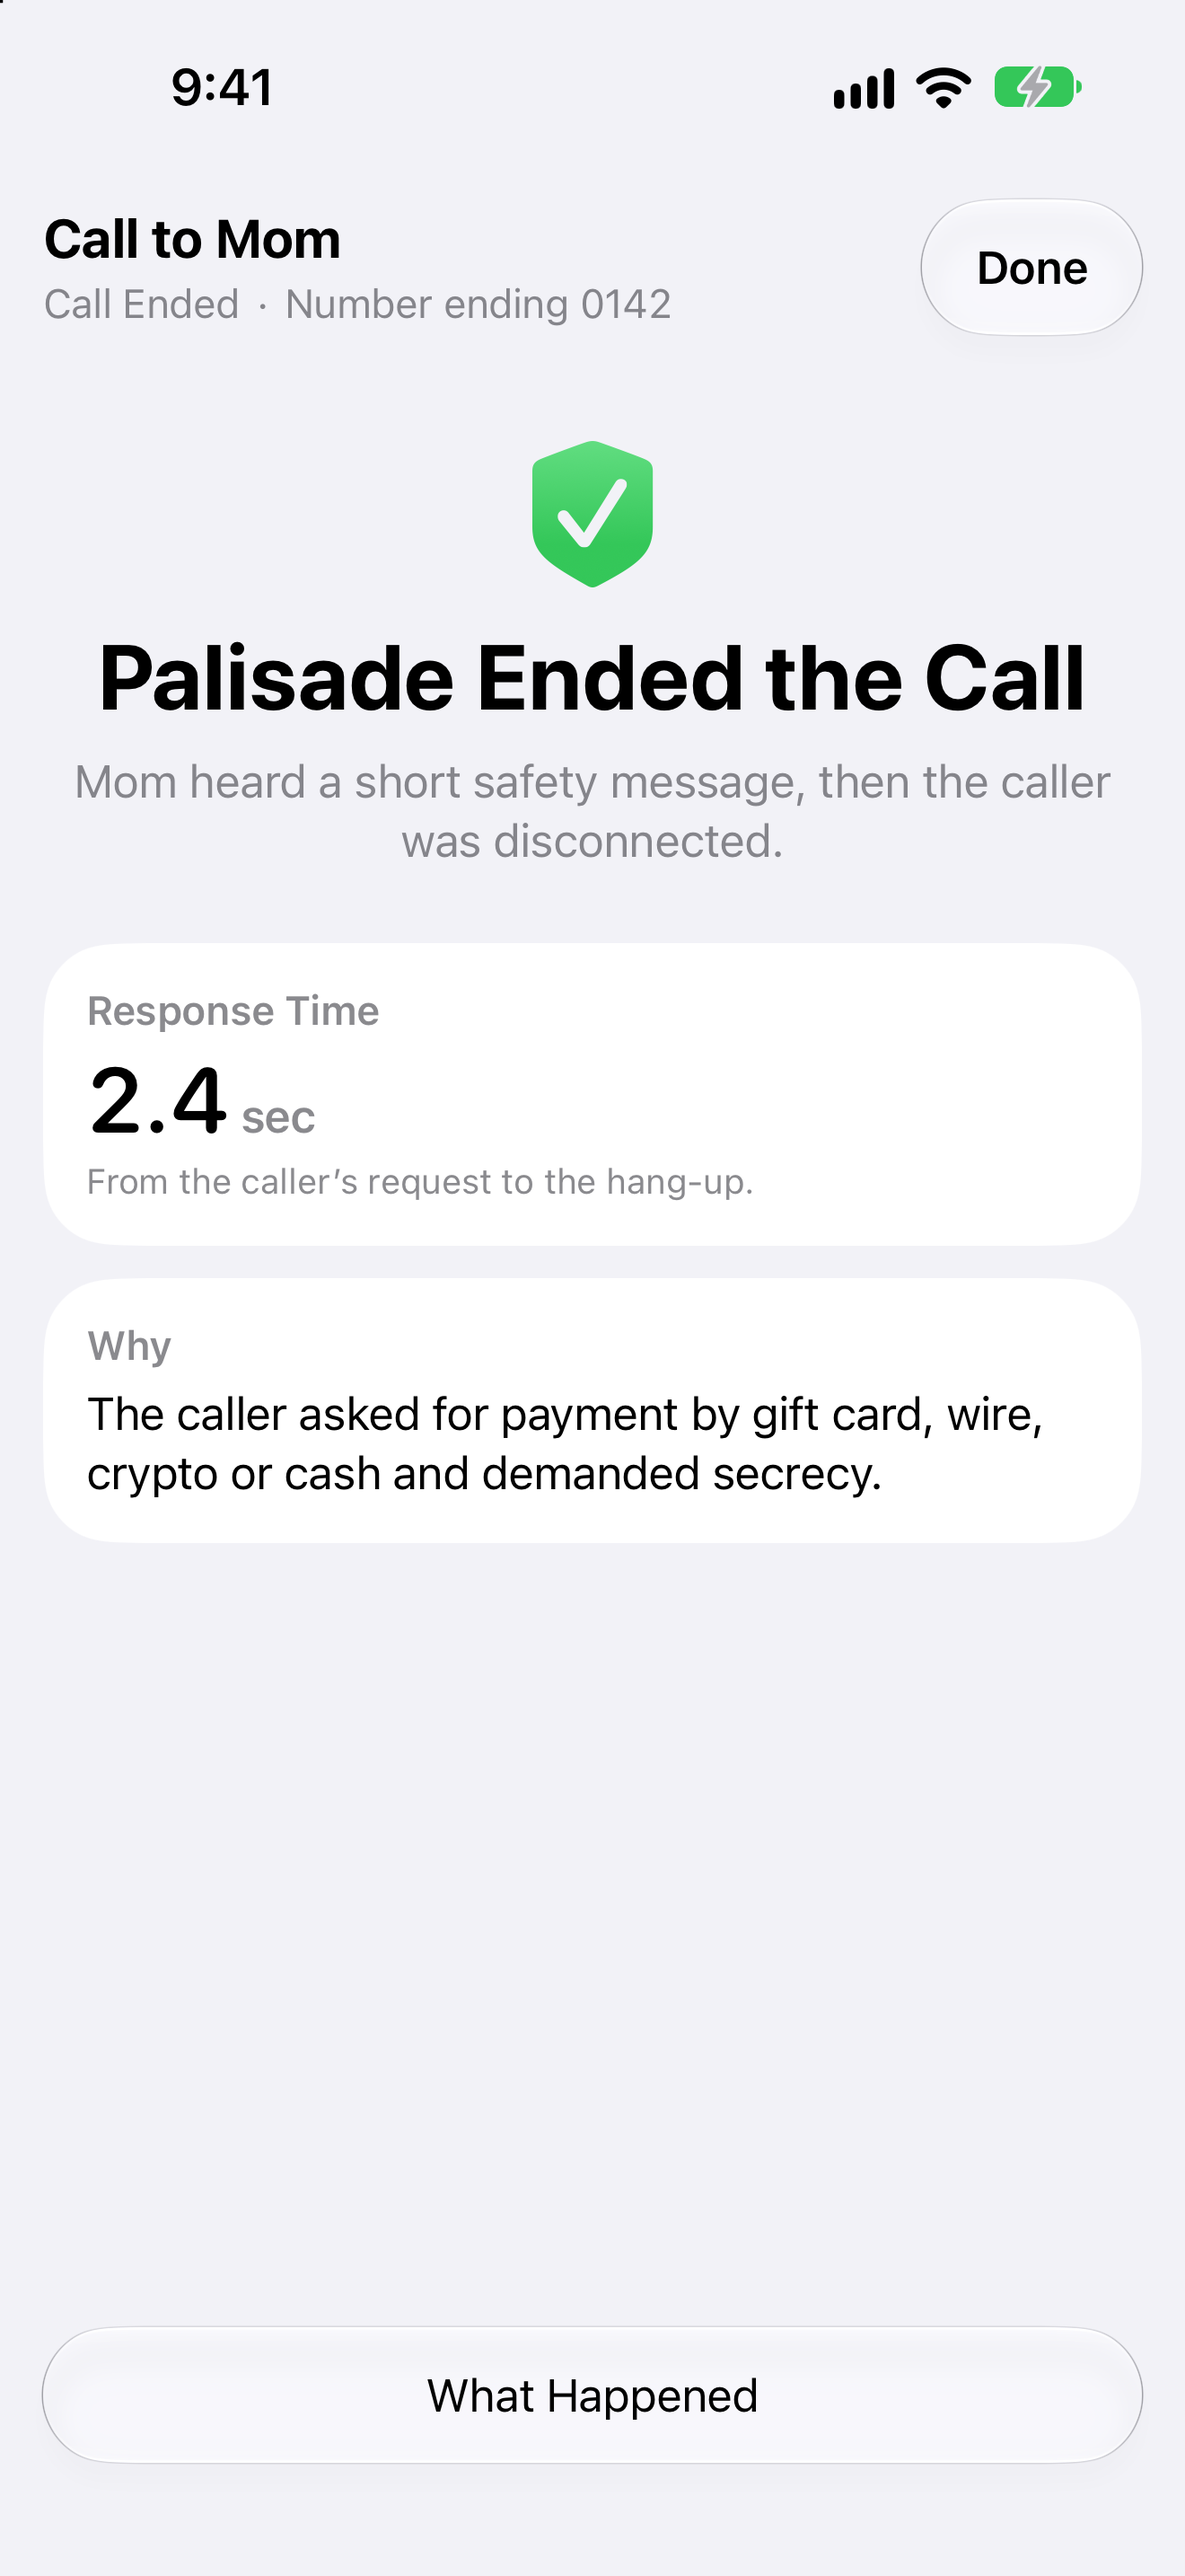
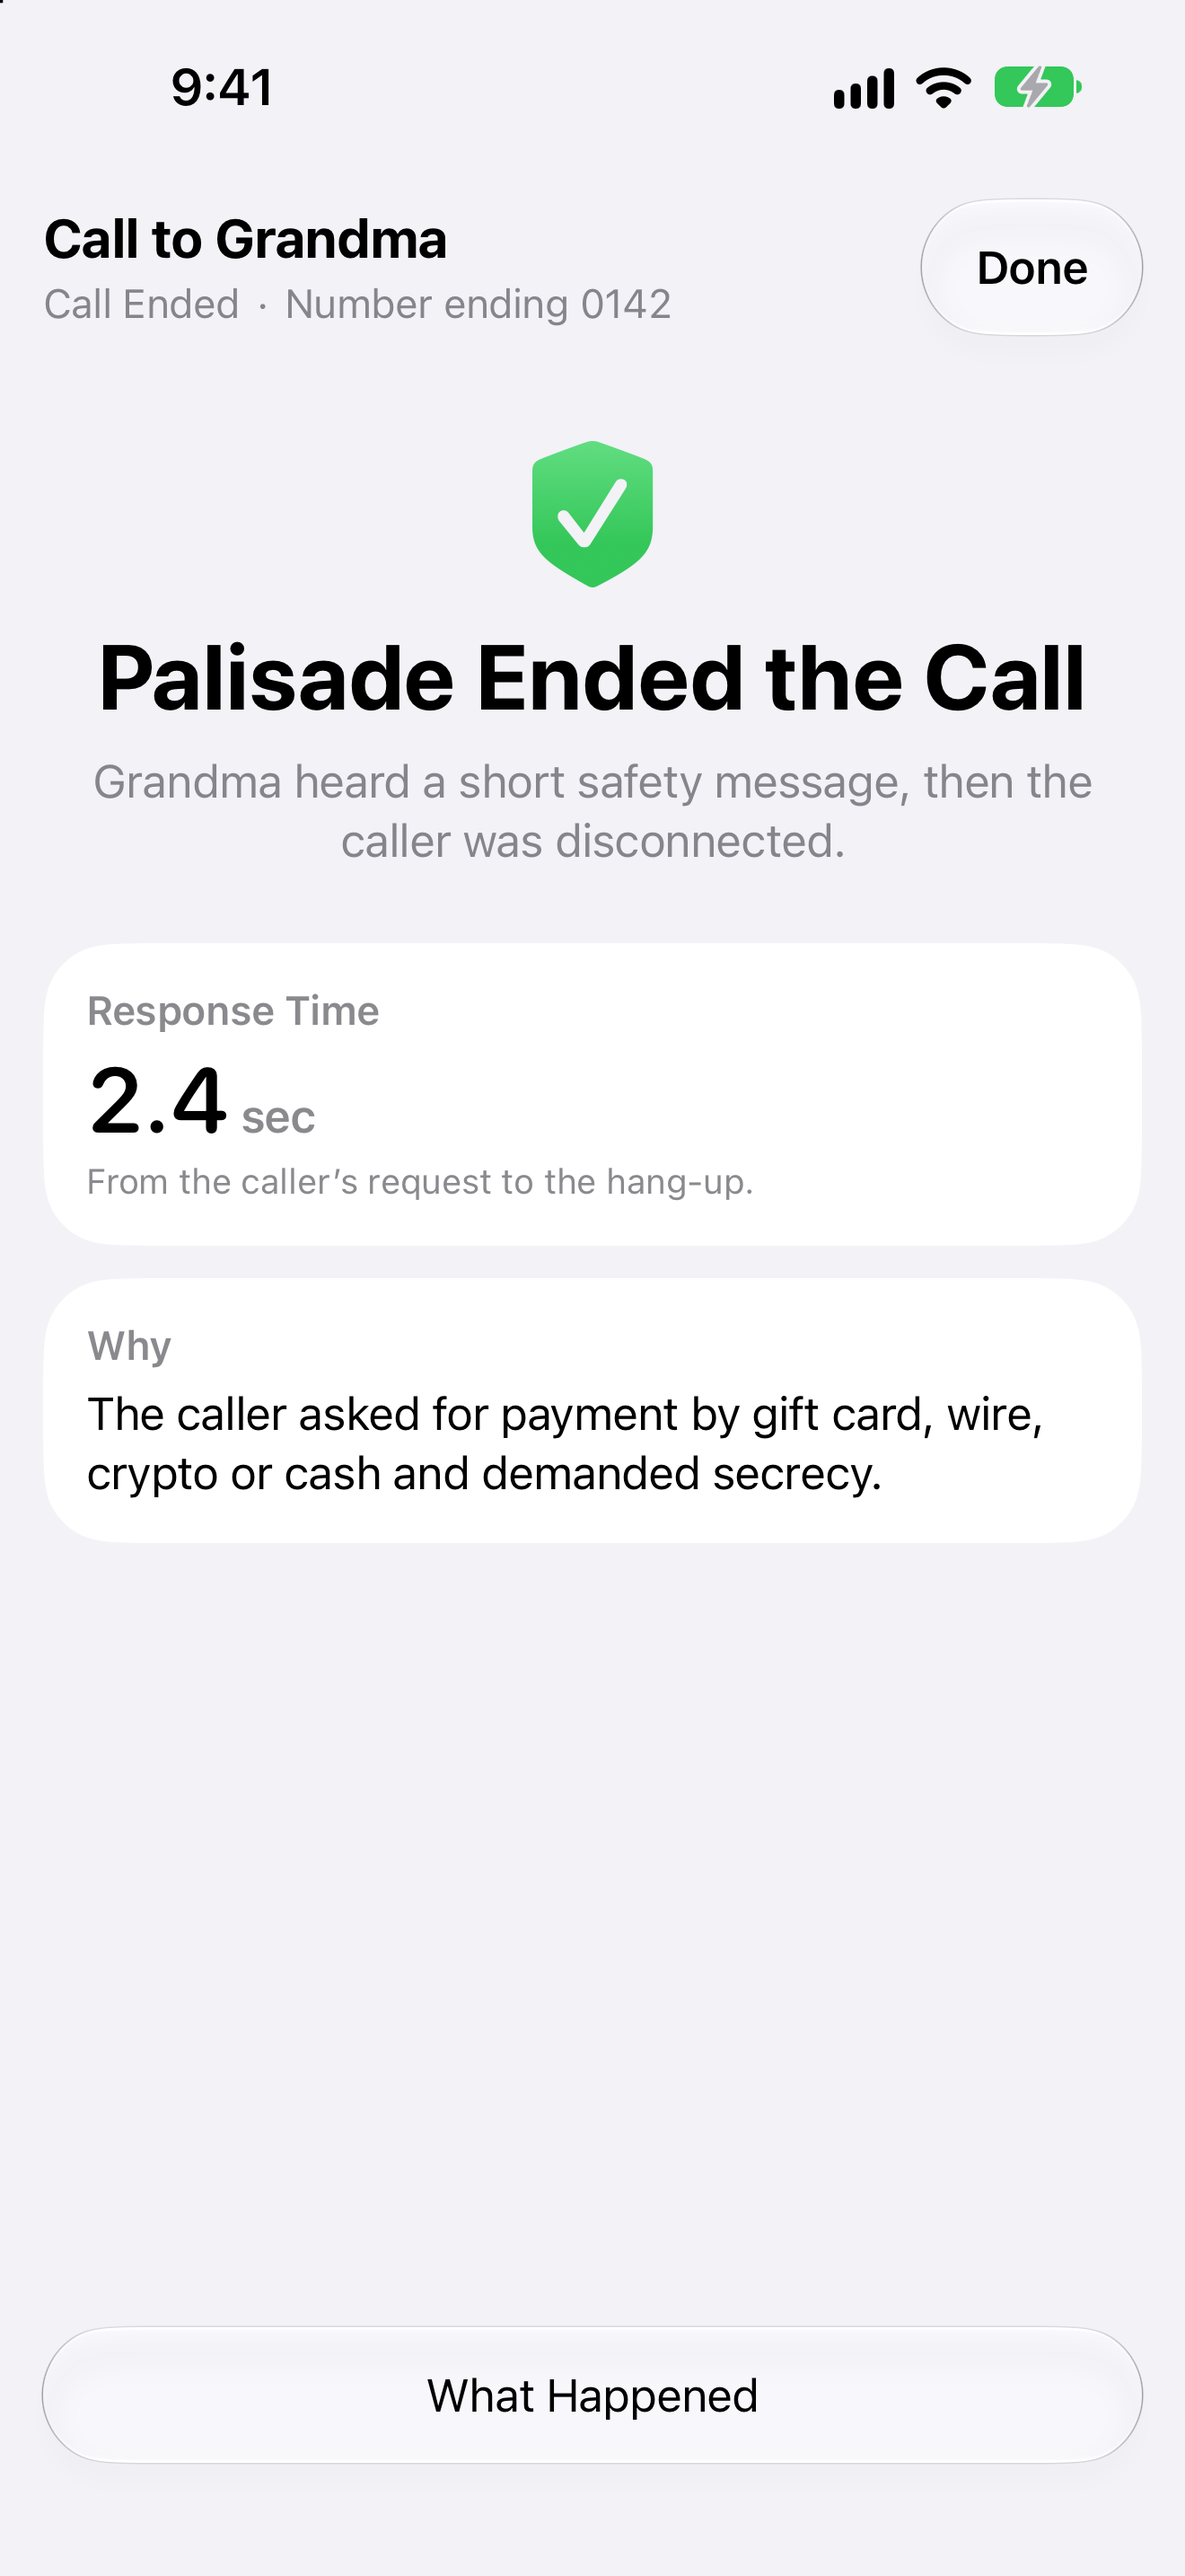
App: the protected person is Grandma, where the app said Mom
The user: "every refrence to mom should be grandma".

- The default name, which every screen uses until the caregiver types another
  in Settings, is Grandma: "Grandma's Phone", "Call to Grandma", "Release to
  Grandma". So are the Name field's prompt, the sample scam text and the
  example in .env.example.
- The 13 pictures in ios/screens are retaken with it, at the same size.
- The longer name was looked at on the smallest simulator, at the usual text
  size and a large one. One thing showed: "Waiting for Grandma to pick up"
  wraps at the large size and sat to the left of its symbol. It is centered.

Left alone on purpose: what callers and texters say in the eval scripts, the
tests and the documents that quote them ("Hi Mom, my phone broke"), and the
rules' list of family words. The server never said Mom. The demo video still
does, and is another session's to rebuild.

diff --git a/ios/Shield/Views/LiveCallView.swift b/ios/Shield/Views/LiveCallView.swift
@@ -253,6 +253,9 @@ private struct TranscriptArea: View {
                 }
             }
             .foregroundStyle(.secondary)
+            // With a long name or large text the line wraps: keep both lines under the symbol.
+            .multilineTextAlignment(.center)
+            .padding(.horizontal, 24)
             .frame(maxWidth: .infinity, maxHeight: .infinity)
             // Out of the way first, and quickly, before the dial and the first words arrive.
             .transition(.asymmetric(insertion: .opacity, removal: .opacity.animation(Motion.quick)))

diff --git a/ios/Shield/Support/SampleData.swift b/ios/Shield/Support/SampleData.swift
@@ -226,7 +226,7 @@ extension GatewayMessage {
         flags: ["OTP_REQUEST", "FAMILY_EMERGENCY"],
         hold: "scam_signals",
         explanation: "Verify independently before sharing account details or verification codes.",
-        words: "Hi Mom, I dropped my phone and this is my new number. The bank is texting you a code, can you send it to me?",
+        words: "Hi Grandma, I dropped my phone and this is my new number. The bank is texting you a code, can you send it to me?",
         from: "+14045550164"
     )
 

diff --git a/ios/Shield/Views/SettingsView.swift b/ios/Shield/Views/SettingsView.swift
@@ -56,7 +56,7 @@ struct SettingsView: View {
 
                 Section {
                     NamedField(name: "Name") {
-                        TextField("Name", text: $seniorName, prompt: Text("Mom"))
+                        TextField("Name", text: $seniorName, prompt: Text("Grandma"))
                     }
                     NamedField(name: "Phone Number") {
                         TextField("Phone Number", text: $seniorPhone, prompt: Text("Optional"))

diff --git a/ios/Shield/Services/ShieldAPI.swift b/ios/Shield/Services/ShieldAPI.swift
@@ -11,7 +11,7 @@ enum SettingsKey {
     static let appearance = "appearance"
 
     static let defaultServerURL = "http://localhost:8000"
-    static let defaultSeniorName = "Mom"
+    static let defaultSeniorName = "Grandma"
 }
 
 enum ShieldAPIError: LocalizedError {
